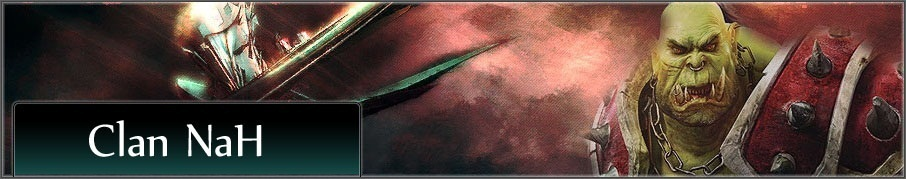
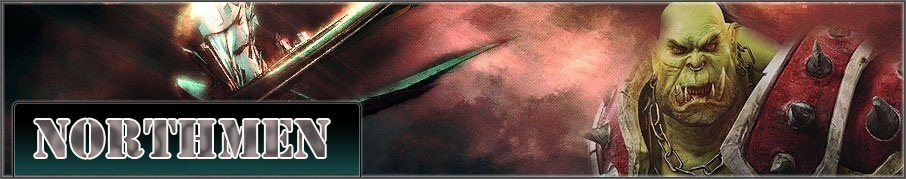
Modification de la Bannière Ajout de l'introduction Préparation pour le systéme de news Création des pages du menu

Changed region(s): [[0.0309, 0.6425, 0.3709, 0.8939]]

diff --git a/style.css b/style.css
@@ -78,6 +78,13 @@ html>body #menu li ul ul {border-left : 1px solid transparent;}
    border-left: 2px solid #1d1d1d; /* Une bordure pour bien marquer les limites du corps et pour faire joli */
    border-right: 2px solid #1d1d1d; /* Une bordure pour bien marquer les limites du corps et pour faire joli */
 	min-height: 593px;
+font-size : 12px;
+}
+
+#news
+{
+border-top: 2px solid #1d1d1d; /* Une bordure pour bien marquer les limites du corps et pour faire joli */
+font-size : 12px;
 }
 
 #avancee

diff --git a/avancement.php b/avancement.php
@@ -1,0 +1,2 @@
+<?php include("style.php"); ?>
+<?php include("foot.php"); ?>

diff --git a/divers.php b/divers.php
@@ -1,0 +1,2 @@
+<?php include("style.php"); ?>
+<?php include("foot.php"); ?>

diff --git a/guilde.php b/guilde.php
@@ -1,0 +1,2 @@
+<?php include("style.php"); ?>
+<?php include("foot.php"); ?>

diff --git a/histoire.php b/histoire.php
@@ -1,0 +1,2 @@
+<?php include("style.php"); ?>
+<?php include("foot.php"); ?>

diff --git a/news.php b/news.php
@@ -1,0 +1,1 @@
+<div id="news"></div>
